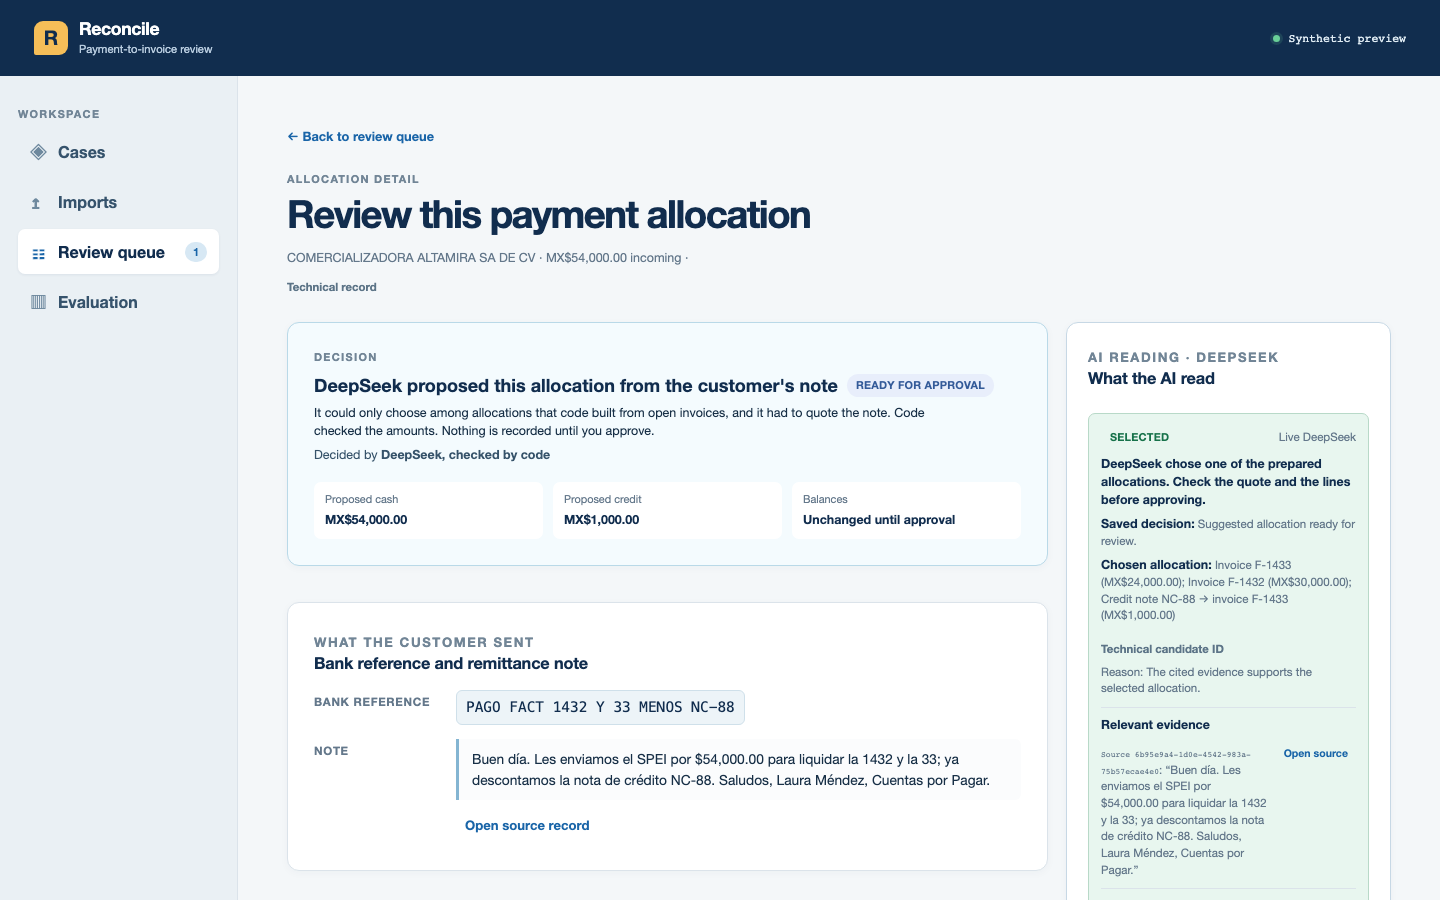
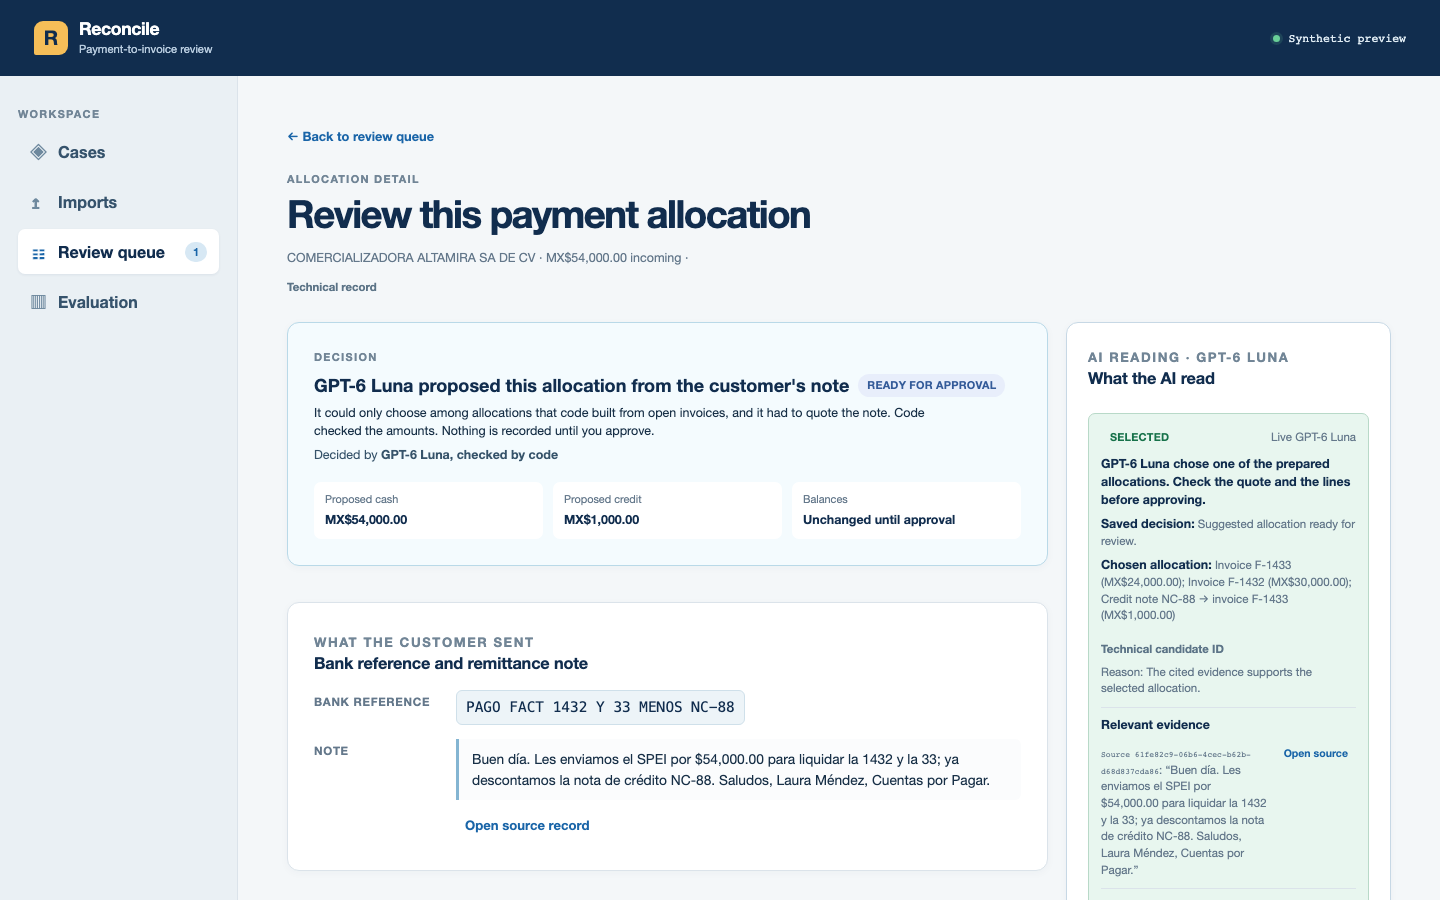
docs: show GPT-6 Luna on the live demo and record the deploy
The README and case library screenshots are retaken from the live demo
with GPT-6 Luna. STATUS records the deploys, the owner's replacement key
and a live gpt-6-luna reading, and the rotation checklist marks the key
replacement done, with the pasted temporary key still to revoke.

diff --git a/docs/STATUS.md b/docs/STATUS.md
@@ -48,8 +48,22 @@ CLI's own token to call the API is credential access that stays off limits. The
 owner sets `OPENAI_API_KEY` (and `RECONCILE_LLM_MODEL=gpt-6-luna` if present) in the
 Render dashboard before the deploy. The temporary key expires after a day.
 
-**Next.** Deploy after the key is set. Retake the README screenshots, which still
-show the DeepSeek UI, then continue the v2 next steps with a new blind set.
+**Deployed.**
+- #51 and #52 (saved readings keep the name of the model that made them) went live
+  as `e8337c9` in `dep-daq98g142hec738qnmn0`.
+- The owner then created a replacement OpenAI key and added it to Render, which
+  redeployed as `dep-daq9dr142hec738rd17g`.
+- On the live demo, a session reports provider access, and the abbreviated SPEI case
+  returned a live `gpt-6-luna` reading: F-1432 and F-1433 with NC-88 applied to
+  F-1433, citing the note.
+- One live call per demo case resolved the abbreviated and partial-payment cases.
+  It left the ambiguous and hidden-instruction cases for a person.
+- The hosted Playwright suite passed 32 of 32 on the new build.
+- The README and landing page screenshots were retaken from the live demo.
+
+**Next.** Revoke the temporary key pasted into the conversation, and remove
+`DEEPSEEK_API_KEY` from Render once GPT-6 Luna has run for a while. Then continue
+the v2 next steps with a new blind set.
 
 ## Evaluation v2: measured once — 2026-09-23
 

diff --git a/README.md b/README.md
@@ -23,7 +23,7 @@ a pre-registered run, resolved more (48%) but made 13 wrong proposals to GPT-6 L
 
 ![How often a proposal was right across all cases: DeepSeek 82% (61 right, 13 wrong), GPT-6 Luna 94% (50 right, 3 wrong)](docs/images/results/precision.svg)
 
-![Screenshot from the DeepSeek release. An abbreviated SPEI reference read by the model: the rules deferred, the model chose F-1432 and F-1433 with credit note NC-88, and balances wait for approval](docs/images/ai-reading.png)
+![An abbreviated SPEI reference read by GPT-6 Luna: the rules deferred, the model chose F-1432 and F-1433 with credit note NC-88, and balances wait for approval](docs/images/ai-reading.png)
 
 ## The problem
 
@@ -99,6 +99,9 @@ shows the decision trace, a method comparison and synthetic reliability checks
   the hidden instruction was not followed (F-5520, not F-5521). These are four
   development observations, and the prompt was revised after the first live call
   on the abbreviated case abstained. They are not an accuracy measurement.
+  After the switch to GPT-6 Luna, one live call per case on the demo resolved the
+  abbreviated reference and the partial payment the same way. It left the
+  ambiguous payment and the hidden-instruction case for a person.
 - **How the AI did on 178 cases**
   ([GPT-6 Luna](reports/eval-v2-openai/README.md),
   [DeepSeek, pre-registered](reports/eval-v2/README.md)). AI agents wrote 178

diff --git a/docs/ROTATION_CHECKLIST.md b/docs/ROTATION_CHECKLIST.md
@@ -2,10 +2,11 @@
 
 Rotate these credentials after the current release work is complete:
 
-- [ ] Replace the temporary OpenAI API key used from 2026-09-23. It expires after a
-  day; set the replacement as `OPENAI_API_KEY` on the Render service, verify a
-  minimal authenticated catalog request, and never copy the value into Git,
-  frontend configuration, commands, reports, or logs.
+- [x] Replace the temporary OpenAI API key used from 2026-09-23. The owner created
+  a replacement and set it as `OPENAI_API_KEY` on the Render service on 2026-09-23.
+  A live reading on the demo then returned `gpt-6-luna`.
+- [ ] Revoke the temporary OpenAI key that was pasted into the project
+  conversation. It also expires on its own after a day.
 - [ ] Replace and revoke the DeepSeek API key that was pasted into the project
   conversation. The runtime no longer uses DeepSeek. Update only the supported local or deployment secret store, verify
   a minimal authenticated catalog request, and never copy the value into Git,
